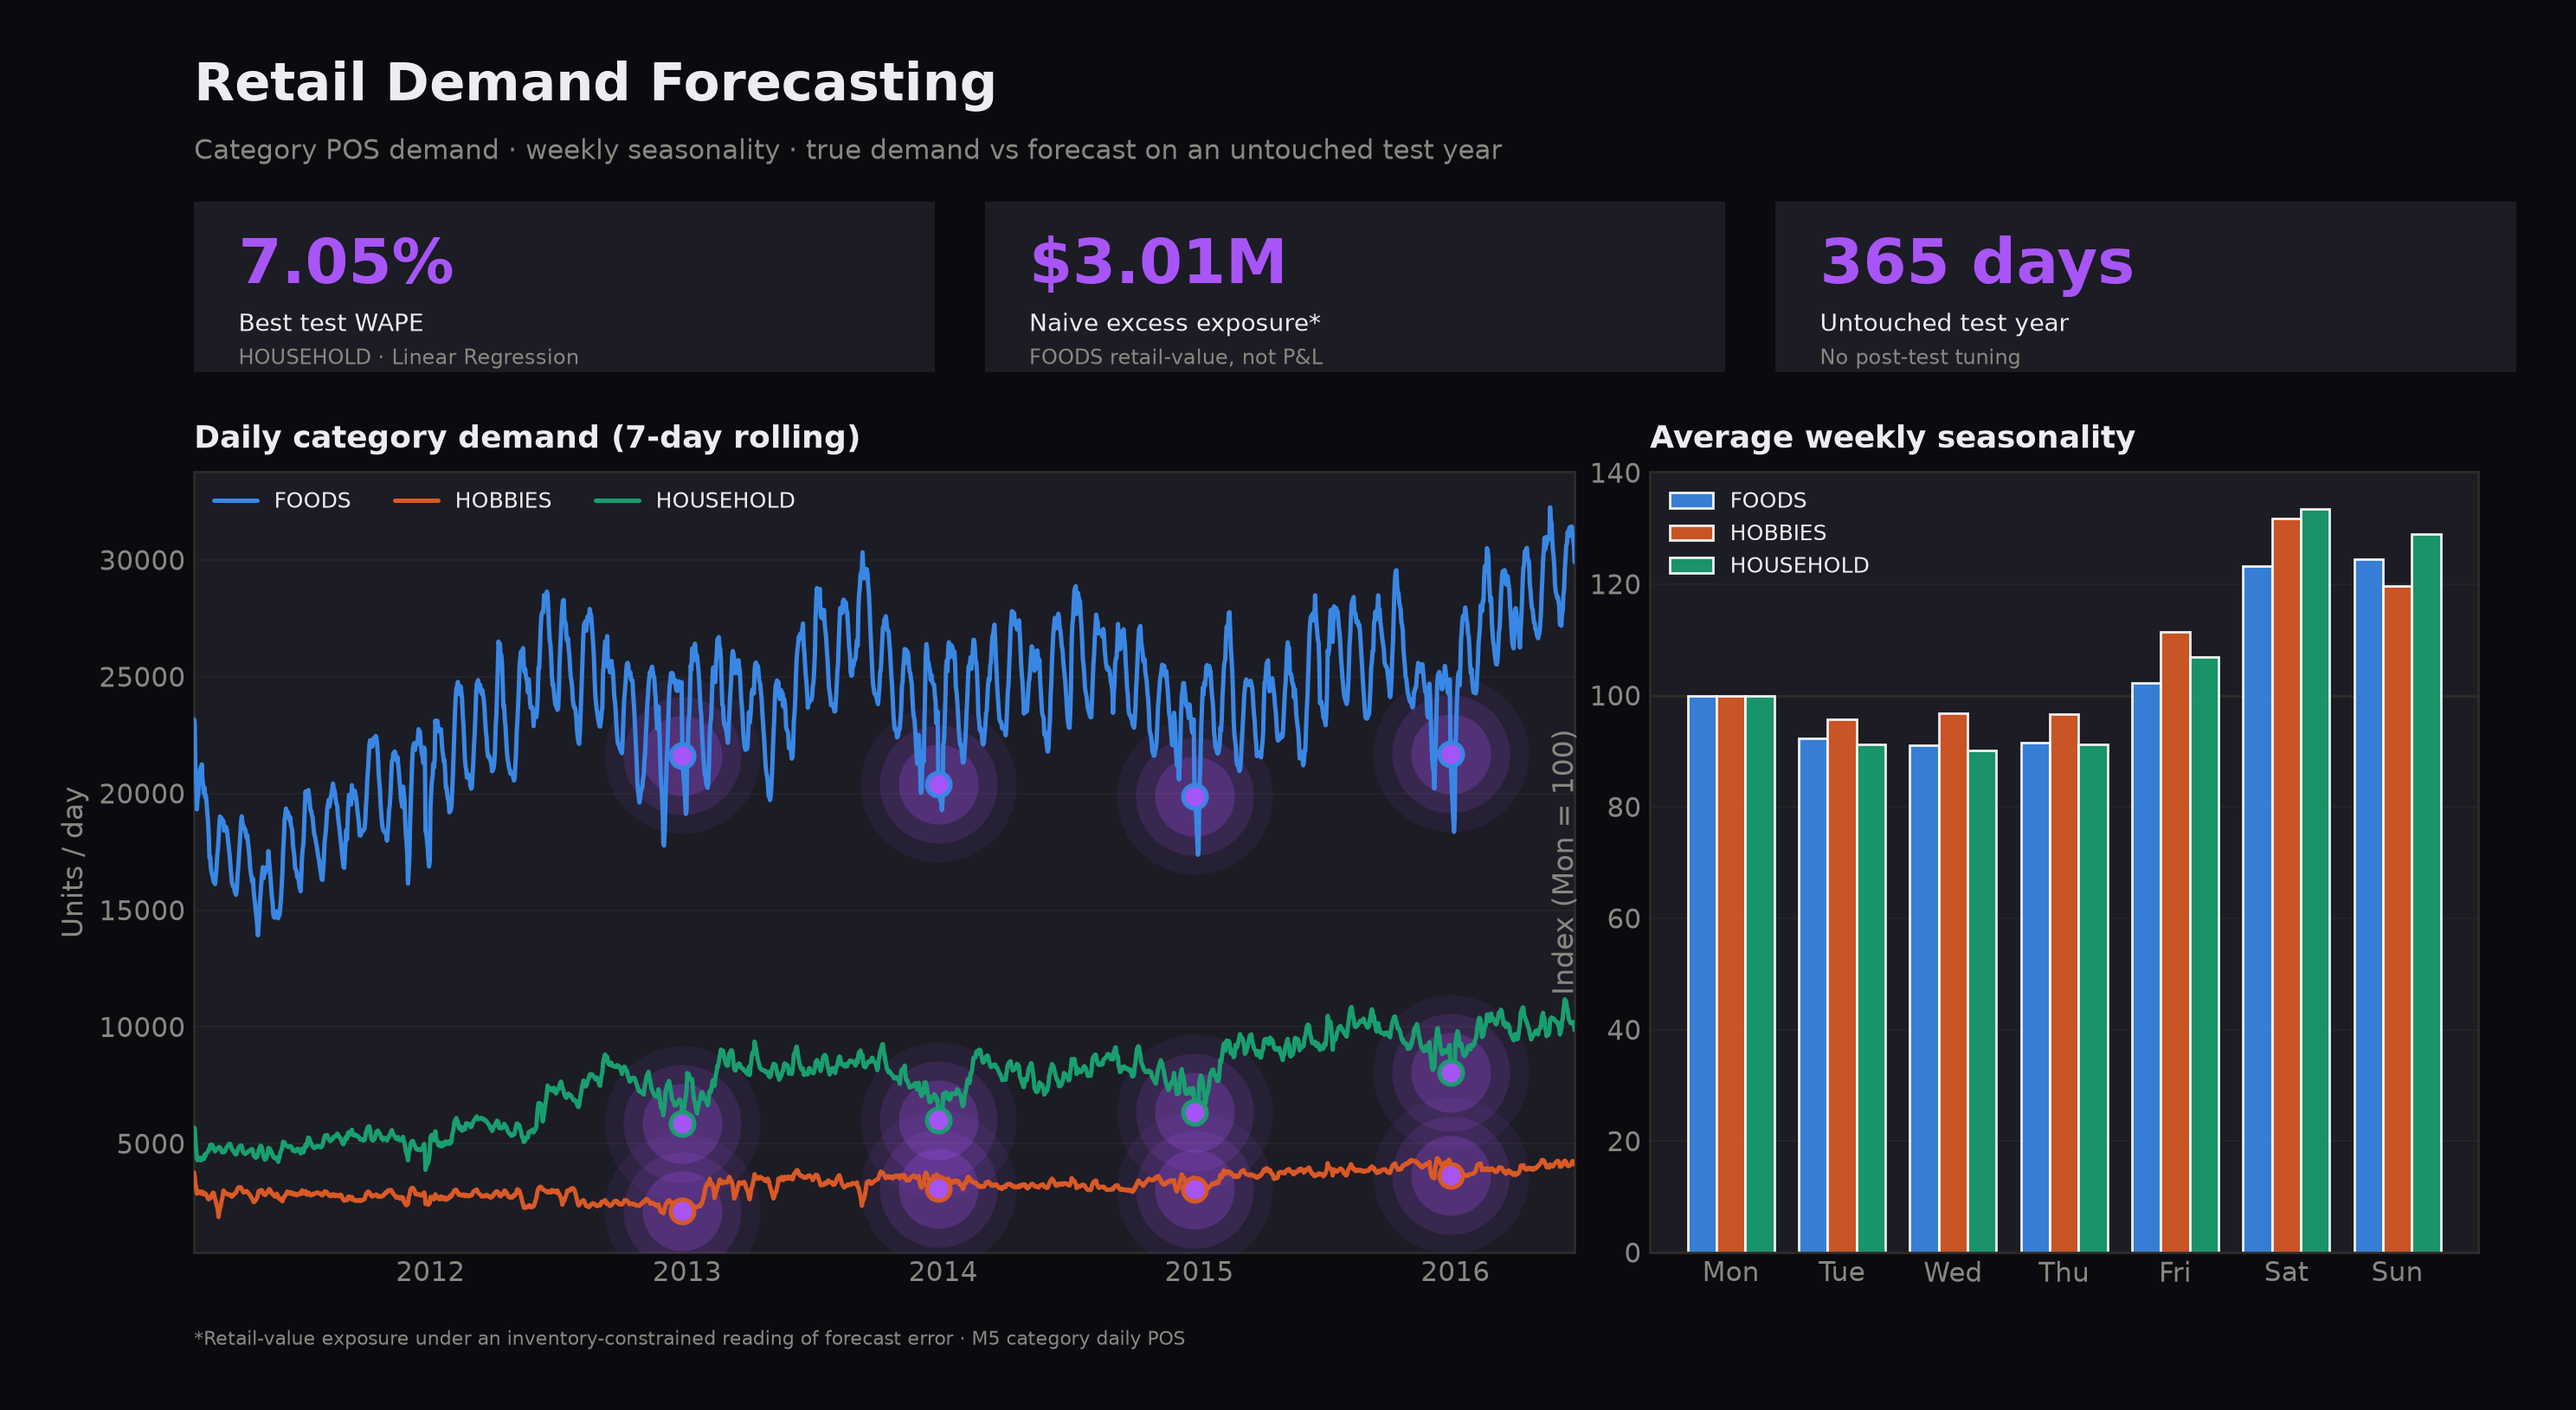
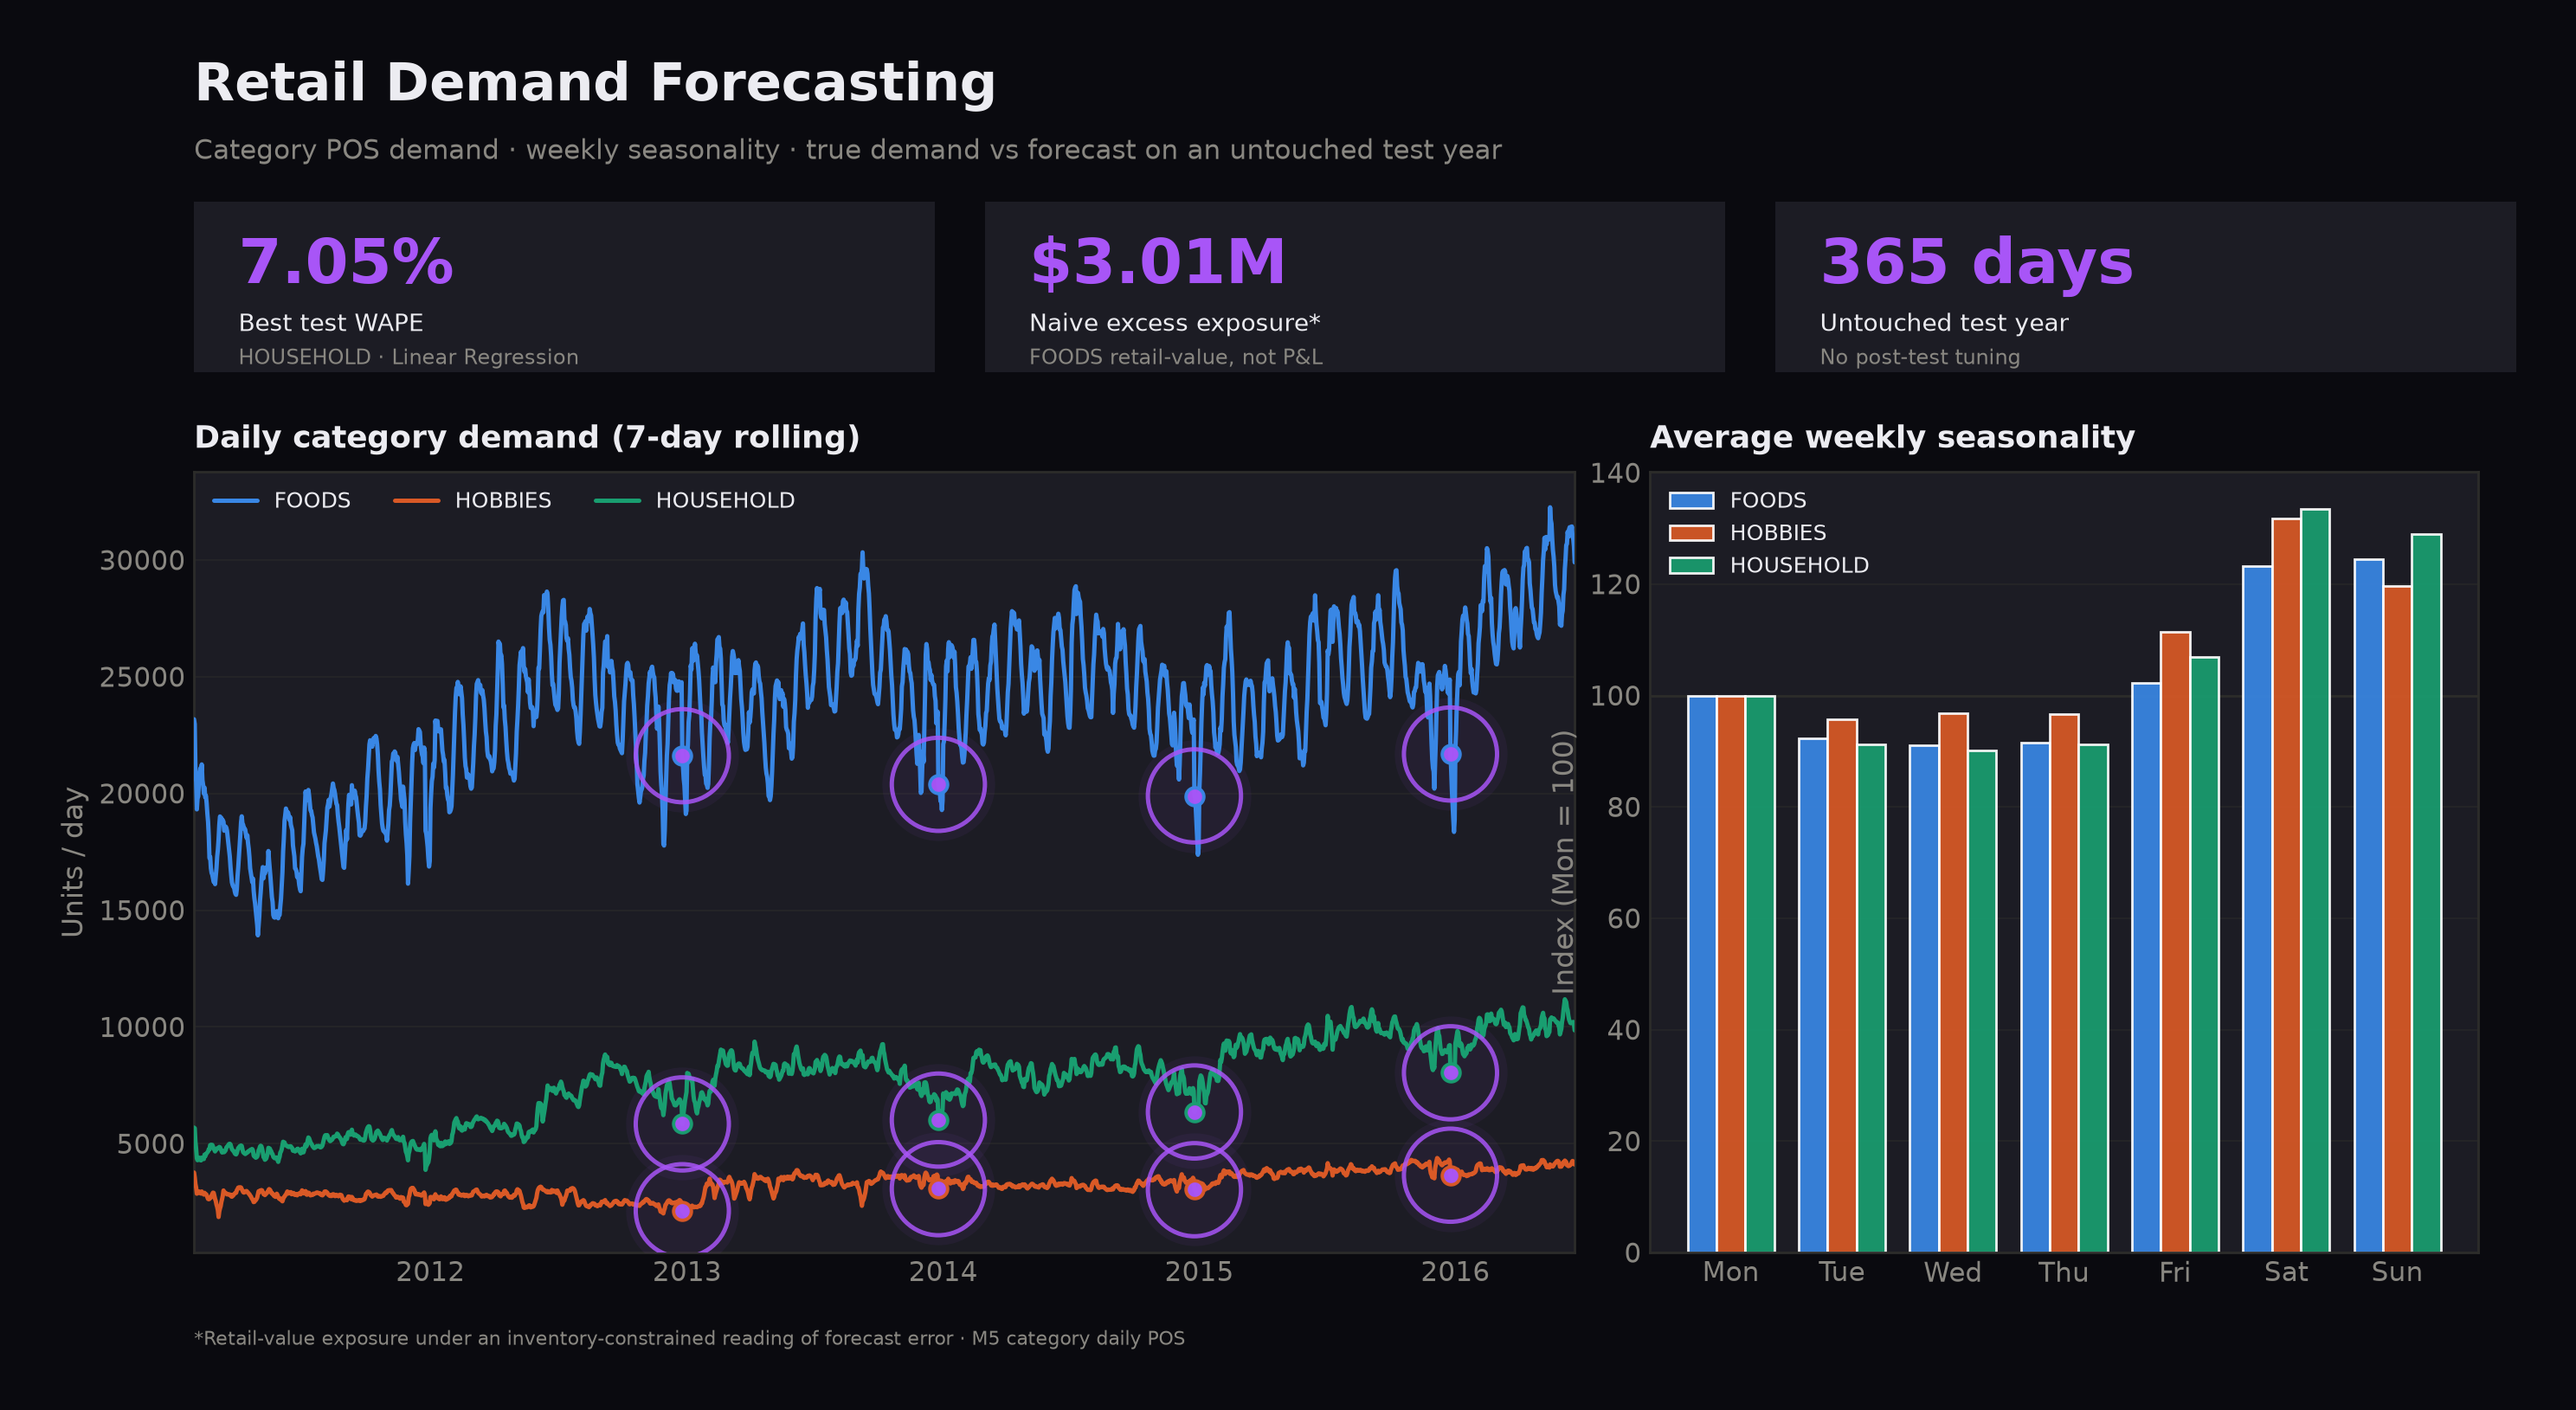
Refine Dec 25 highlights to outlined focus circles.
Keep all chart colors and layout unchanged while replacing glow blobs with cleaner outlined circles around Christmas demand dips.

diff --git a/src/components/RetailForecastCharts.jsx b/src/components/RetailForecastCharts.jsx
@@ -87,10 +87,9 @@ const ChristmasGlow = (seriesColor) =>
         if (!payload?.isChristmas || cx == null || cy == null) return null;
         return (
             <g>
-                <circle cx={cx} cy={cy} r={52} fill={CHART.accent} fillOpacity={0.1} />
-                <circle cx={cx} cy={cy} r={38} fill={CHART.accent} fillOpacity={0.16} />
-                <circle cx={cx} cy={cy} r={24} fill={CHART.accent} fillOpacity={0.28} />
-                <circle cx={cx} cy={cy} r={9} fill={CHART.accent} stroke={seriesColor} strokeWidth={2} />
+                <circle cx={cx} cy={cy} r={34} fill={CHART.accent} fillOpacity={0.06} />
+                <circle cx={cx} cy={cy} r={34} fill="none" stroke={CHART.accent} strokeWidth={2.4} strokeOpacity={0.85} />
+                <circle cx={cx} cy={cy} r={5} fill={CHART.accent} stroke={seriesColor} strokeWidth={1.6} />
             </g>
         );
     };

diff --git a/scripts/generate_retail_charts.py b/scripts/generate_retail_charts.py
@@ -190,17 +190,26 @@ def christmas_glow(ax, rolled_series, years=range(2012, 2017)):
             if x not in index:
                 continue
             yv = float(values.loc[x])
-            for size, alpha in ((4200, 0.08), (2400, 0.14), (1100, 0.24)):
-                ax.scatter([x], [yv], s=size, color=ACCENT, alpha=alpha, zorder=3, linewidths=0)
+            ax.scatter([x], [yv], s=2200, color=ACCENT, alpha=0.06, zorder=3, linewidths=0)
             ax.scatter(
                 [x],
                 [yv],
-                s=95,
+                s=1500,
+                facecolors="none",
+                edgecolors=ACCENT,
+                alpha=0.85,
+                zorder=5,
+                linewidths=1.8,
+            )
+            ax.scatter(
+                [x],
+                [yv],
+                s=55,
                 color=ACCENT,
                 alpha=0.98,
-                zorder=5,
+                zorder=6,
                 edgecolors=line_color,
-                linewidths=1.8,
+                linewidths=1.4,
             )
 
 
